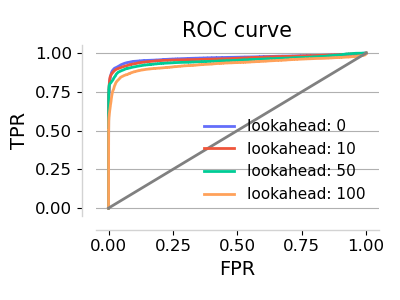
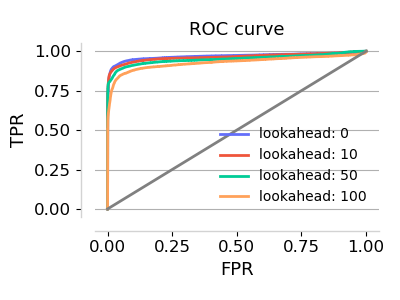
Fix roc plot structure v02.

diff --git a/src/roc_diff_models.py b/src/roc_diff_models.py
@@ -289,11 +289,11 @@ if __name__ == "__main__":
     #     label="lookahead: 120",
     # )
     ax.plot([0, 1], [0, 1], c="gray", lw=2)
-    ax.legend(fontsize=11, frameon=False)
+    ax.legend(fontsize=10, frameon=False)
     sns.despine(offset=10, trim=False)
-    ax.set_title("ROC curve", fontsize=15)
-    ax.set_xlabel("FPR", fontsize=14)
-    ax.set_ylabel("TPR", fontsize=14)
+    ax.set_title("ROC curve", fontsize=13)
+    ax.set_xlabel("FPR", fontsize=13)
+    ax.set_ylabel("TPR", fontsize=13)
     # ax.set_title("XGBoost", fontsize=16)
     plt.gca().spines["left"].set_color("lightgrey")
     plt.gca().spines["bottom"].set_color("lightgrey")
